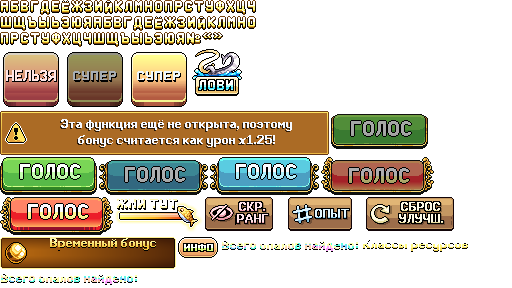
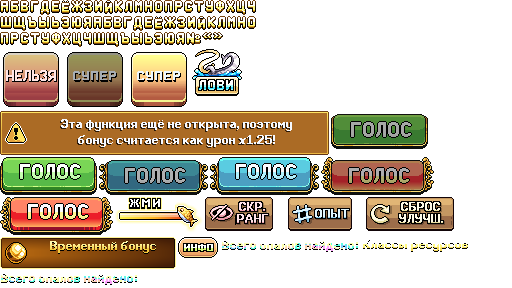
Glyph fixes: limited time bonus lower with the whole р tail, TAP HERE as ЖМИ in the caption's own letters with black depth and yellow rim, pressed vote buttons aligned to the original bottom

diff --git a/tools/labelglyph.py b/tools/labelglyph.py
@@ -97,6 +97,9 @@ PIX = {
         'И': ['##..##', '##..##', '##.###', '######', '###.##', '##..##', '##..##'],
         'Н': ['##..##', '##..##', '##..##', '######', '##..##', '##..##', '##..##'],
         'Ф': ['...##...', '########', '##.##.##', '##.##.##', '##.##.##', '########', '...##...']},
+    8: {'Ж': ['##..#..##', '.##.#.##.', '.##.#.##.', '..#####..', '.##.#.##.', '.##.#.##.', '##..#..##', '##..#..##'],
+        'М': ['##....##', '###..###', '########', '##.##.##', '##....##', '##....##', '##....##', '##....##'],
+        'И': ['##...##', '##...##', '##..###', '##.####', '####.##', '###..##', '##...##', '##...##']},
     6: {'С': ['#####', '##...', '##...', '##...', '##...', '#####'],
         'Л': ['..####', '.##.##', '.##.##', '.##.##', '.##.##', '##..##'],
         'Е': ['#####', '##...', '####.', '##...', '##...', '#####'],
@@ -108,7 +111,7 @@ PIX = {
 }
 
 
-def text_mask(font, text, fit=False):
+def text_mask(font, text, fit=False, height=None, spacing=0):
     """rows of 0/1 of the letter bodies of one line: a PIX size ('pix7') or a game font"""
     if str(font).startswith('pix'):
         h = int(font[3:])
@@ -116,10 +119,10 @@ def text_mask(font, text, fit=False):
         for ch in text:
             g = PIX[h][ch] if ch != ' ' else ['...'] * h
             if cols:
-                cols.append([0] * h)
+                cols += [[0] * h] * (1 + spacing)
             cols += [[int(g[y][x] == '#') for y in range(h)] for x in range(len(g[0]))]
         return [[c[y] for c in cols] for y in range(h)]
-    t = Font(str(font)).render(text)
+    t = Font(str(font)).render(text, spacing)
     tp = t.load()
     ls = [lum(tp[x, y]) for y in range(t.height) for x in range(t.width) if tp[x, y][3] > 100]
     lo = min(ls) if max(ls) - min(ls) > 40 else -41
@@ -128,12 +131,21 @@ def text_mask(font, text, fit=False):
     m = m[rows[0]:rows[-1] + 1]
     xs = [x for x in range(t.width) if any(r[x] for r in m)]
     m = [r[xs[0]:xs[-1] + 1] for r in m]
+    if height:   # a smaller capital height than the font's
+        m = squeeze(m, 0, len(m), height)
+        return m
     if not fit:
         return m
     # capitals only: Д, Ц, Щ feet go back into the capital height (they read as a stripe under the line)
     cnt = [sum(r) for r in m]
     core = [y for y in range(len(m)) if cnt[y] * 3 >= max(cnt)]
     c0, c1 = core[0], core[-1] + 1
+    return squeeze(m, c0, c1, c1 - c0)
+
+
+def squeeze(m, c0, c1, h):
+    """every letter (columns between blank ones) reaching outside rows c0..c1 or taller than h
+    squeezed into h rows from c0"""
     w = len(m[0])
     x = 0
     while x < w:
@@ -144,12 +156,13 @@ def text_mask(font, text, fit=False):
         while e < w and any(r[e] for r in m):
             e += 1
         ys = [y for y in range(len(m)) if any(m[y][x:e])]
-        if ys[0] < c0 or ys[-1] >= c1:
-            g = shrink_rows([r[x:e] for r in m[ys[0]:ys[-1] + 1]], c1 - c0)
+        if ys[0] < c0 or ys[-1] >= c1 or ys[-1] - ys[0] + 1 > h:
+            g = shrink_rows([r[x:e] for r in m[ys[0]:ys[-1] + 1]], h)
+            g = [[0] * (e - x)] * (h - len(g)) + g   # short letters sit on the base line
             for y in range(len(m)):
-                m[y][x:e] = g[y - c0] if c0 <= y < c1 else [0] * (e - x)
+                m[y][x:e] = g[y - c0] if c0 <= y < c0 + h else [0] * (e - x)
         x = e
-    return m[c0:c1]
+    return m[c0:c0 + h]
 
 
 def shrink_rows(rows, h):
@@ -173,7 +186,7 @@ def draw_text(img, sp):
     body = {}   # (x, y) -> row index within its line, line height
     y = sp['y']
     for line in sp['text'].split('|'):
-        m = text_mask(sp['font'], line, sp.get('fit', False))
+        m = text_mask(sp['font'], line, sp.get('fit', False), sp.get('rows'), sp.get('spacing', 0))
         h, w = len(m), len(m[0])
         x = sp['x'] if 'x' in sp else round(sp['cx'] - w / 2)
         for r in range(h):
@@ -184,15 +197,19 @@ def draw_text(img, sp):
     split = sp.get('split', 10 ** 6)
     rings = sorted(sp.get('rings', []))
     paint = {}
+    # extrude: the letters stand n rows deep, the sides in the inner ring colour
+    ext = {(x, y + k) for x, y in body for k in range(1, sp.get('extrude', 0) + 1)} - set(body)
+    for p in ext:
+        paint[p] = 0
     if rings:
         rmax = rings[-1][0]
         k = int(rmax ** 0.5) + 1
-        for (bx, by) in body:
+        for (bx, by) in list(body) + list(ext):
             for dy in range(-k, k + 1):
                 for dx in range(-k, k + 1):
                     d = dx * dx + dy * dy
                     p = (bx + dx, by + dy)
-                    if d <= rmax and p not in body and d < paint.get(p, 10 ** 6):
+                    if d <= rmax and p not in body and p not in ext and d < paint.get(p, 10 ** 6):
                         paint[p] = d
     shape = set(body) | set(paint)
     if sp.get('shadow'):
@@ -217,6 +234,8 @@ def custom(fid, ch, sp):
       fills   body colours top to bottom, stretched over the letter height
       rings   [[r², colour above split, colour from split]] outlines by squared distance, inner first
       shadow  [dx, dy, colour, [[from y, colour], ...]] behind everything, darker on lower bands
+      extrude n rows of depth under the letters in the inner ring colour
+      fit     capitals: feet of Д, Ц, Щ inside the capital height; rows: letters squeezed to n rows
       clip    [x0, y0, x1, y1] nothing drawn outside
       parts   several such texts (text .. clip) on one glyph
     (a simple() entry takes such a spec as "then", drawn over its result)"""
